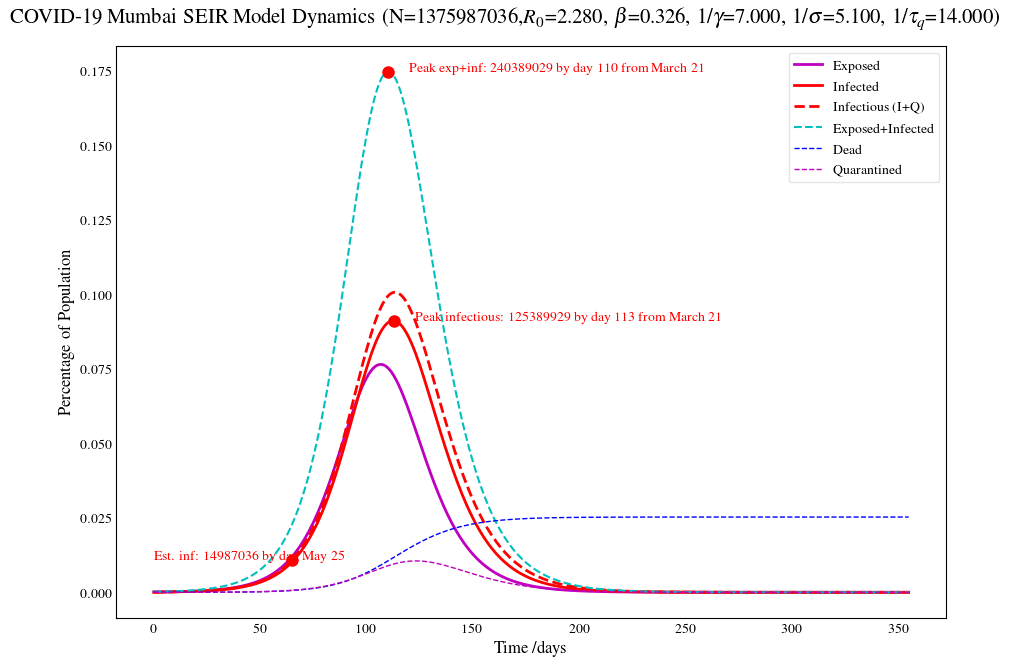
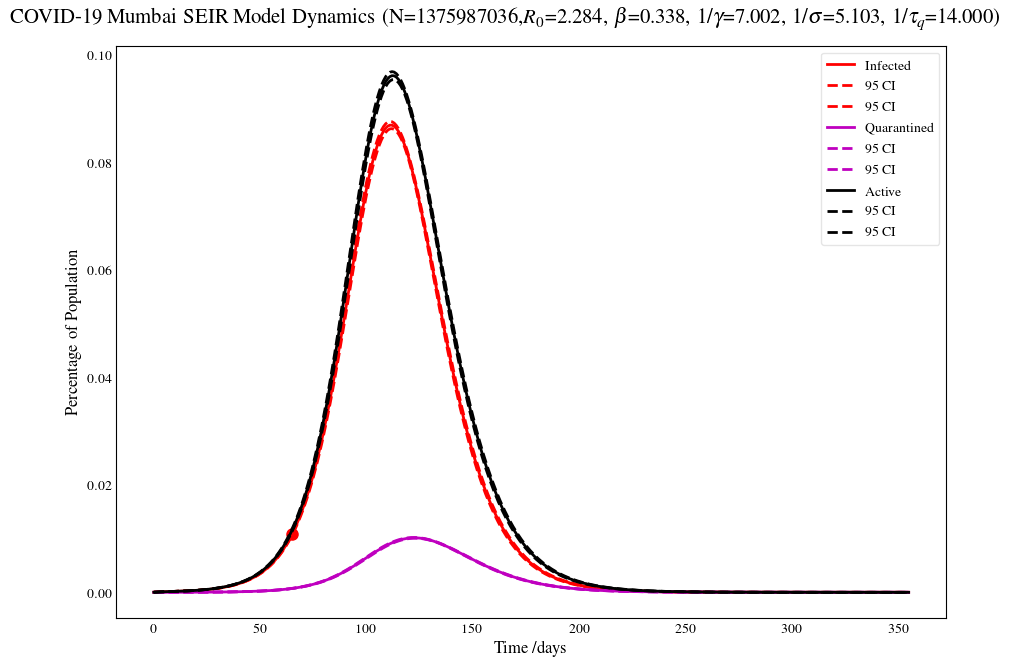
Implemented monte carlo sampling for Mumbai model.. not working well..

diff --git a/sim_mumbaiPuneSEIR_model_MC.py b/sim_mumbaiPuneSEIR_model_MC.py
@@ -1,14 +1,21 @@
+import random
 import numpy as np
 from   scipy.integrate import odeint
 from   scipy.integrate import solve_ivp
 from   scipy.optimize import fsolve
 from   scipy import stats
 from   scipy.stats import gamma
+import scipy.special as sps
+from scipy.stats import sem
+from scipy.stats import t as tdist
+from scipy import mean
+confidence = 0.95
 import matplotlib.pyplot as plt
 from matplotlib import rc
 
 rc('font',**{'family':'serif','serif':['Times']})
 rc('text', usetex=True)
+
 
 ############################################
 ######## Parameters for Simulation ########
@@ -21,6 +28,7 @@ N            = 1375987036
 days         = 356
 tau_q_inv    = 14
 tau_q        = 1.0 /tau_q_inv
+m            = 0.0043 
 
 # Initial values from March 21st "armed forces predictions"
 R0           = 23
@@ -28,7 +36,7 @@ D0           = 5
 T0           = 334  # 249  
 Q0           = 249           #Q0 is 1% of infectious I0
 I0           = (1.01/0.01) * Q0
-contact_rate = 10             # number of contacts per day
+contact_rate = 10            # number of contacts per day
 E0           = (contact_rate - 1)*I0
 
 
@@ -65,70 +73,104 @@ def seir_mumbai(t, X, N, beta, gamma, sigma, m, q, tau_q):
 q           = 0.01
 
 # Model Parameters to sample from Gamma Distributions
-gamma_inv    = 7  
-sigma_inv    = 5.1
-m            = 0.0043
-r0           = 2.28      
+gamma_inv, gamma_inv_shape = 7 , 0.1 
+sigma_inv, sigma_inv_shape = 5.1, 0.1
+r0, r0_shape               = 2.28 , 0.1     
 
-# Sample 1000 points from 
-shape,scale = 4.2503, 7037
-Gamma = gamma(a = shape, scale = scale)
-x = np.arange(1,100000)
+# Sample 1000 points from gamma distribution of gamma_inv
+gamma_inv_samples = 10*np.random.gamma(gamma_inv, gamma_inv_shape, 1000)
+sigma_inv_samples = 10*np.random.gamma(sigma_inv, sigma_inv_shape, 1000)
+r0_samples = 10*np.random.gamma(r0, r0_shape, 1000)
+# gamma_inv_samples = np.random.normal(gamma_inv, gamma_inv_shape, 1000)
+# sigma_inv_samples = np.random.normal(sigma_inv, sigma_inv_shape, 1000)
+# r0_samples = np.random.normal(r0, r0_shape, 1000)
 
-fig, ax = plt.subplots(ncols = 3, nrows = 1, figsize = (20,5), sharex = True)
-ax[0].plot(x, Gamma.pdf(x));
+count, bins, ignored = plt.hist(r0_samples, 50, density=True)
+plt.show()
+count, bins, ignored = plt.hist(sigma_inv_samples, 50, density=True)
+plt.show()
+count, bins, ignored = plt.hist(gamma_inv_samples, 50, density=True)
+plt.show()
 
-ax[1].hist(Gamma.rvs(460), edgecolor = 'white', bins = 50);
-
-
-samps = np.concatenate([Gamma.rvs(j) for j in [200, 200, 50 , 10]])
-ax[2].hist(samps, edgecolor = 'white', bins = 50);
-
-
-
-
-# Derived Model parameters and 
-beta       = r0 / gamma_inv
-sigma      = 1.0 / sigma_inv
-gamma      = 1.0 / gamma_inv
-
-
-print('*****   Hyper-parameters    *****')
-print('N=',N,'days=',days, 'r0=',r0, 'gamma_inv (days) = ',gamma_inv, 'tauq_inv (days) = ',tau_q_inv)
-
-print('*****   Model-parameters    *****')
-print('beta=',beta,'gamma=', gamma, 'sigma', sigma, 'tau_q', tau_q, 'm', m)
-
-
-''' Compartment structure of armed forces SEIR model
-    N = S + E + I + Q + R + D
-'''
-S0 = N - E0 - I0 - Q0 - R0 - D0
-print("S0=",S0)
-print("E0=",E0)
-print("I0=",I0)
-print("Q0=",D0)
-print("R0=",R0)
-print("D0=",D0)
-
-# A grid of time points (in days)
+# A grid of time points (in days) for each simulation
 t_eval = np.arange(0, days, 1)
 
-# Initial conditions vector
-y0 = S0, E0, I0, Q0, R0, D0
+simulations = 1000
+S_sims  = np.empty(shape=(simulations,days))
+E_sims  = np.empty(shape=(simulations,days))
+I_sims  = np.empty(shape=(simulations,days))
+Q_sims  = np.empty(shape=(simulations,days))
+Re_sims = np.empty(shape=(simulations,days))
+D_sims  = np.empty(shape=(simulations,days))
+for ii in range(simulations):
+    gamma_inv_sample = gamma_inv_samples[ii]
+    sigma_inv_sample = sigma_inv_samples[ii]
+    r0_sample = r0_samples[ii]
 
-# Integrate the SEIR equations over the time grid, with bet
-ode_sol = solve_ivp(lambda t, X: seir_mumbai(t, X, N, beta, gamma, sigma, m, q, tau_q), y0=y0, t_span=[0, days], t_eval=t_eval, method='LSODA')
+    ### TODO:  Put all of this in a class later
+    # Derived Model parameters and 
+    beta       = r0_sample / gamma_inv_sample
+    sigma      = 1.0 / sigma_inv_sample
+    gamma      = 1.0 / gamma_inv_sample
 
-t   = ode_sol['t']
-S   = ode_sol['y'][0]
-E   = ode_sol['y'][1]
-I   = ode_sol['y'][2]
-Q   = ode_sol['y'][3]
-Re  = ode_sol['y'][4]
-D   = ode_sol['y'][5]
+    print('*****   Hyper-parameters    *****')
+    print('N=',N,'days=',days, 'r0=',r0_sample, 'gamma_inv (days) = ',gamma_inv_sample, 'tauq_inv (days) = ',tau_q_inv, 'sigma_inv (days) = ',sigma_inv_sample)
+
+    print('*****   Model-parameters    *****')
+    print('beta=',beta,'gamma=', gamma, 'sigma', sigma, 'tau_q', tau_q, 'm', m)
+
+    ''' Compartment structure of armed forces SEIR model
+        N = S + E + I + Q + R + D
+    '''
+    S0 = N - E0 - I0 - Q0 - R0 - D0
+    print("S0=",S0)
+    print("E0=",E0)
+    print("I0=",I0)
+    print("Q0=",D0)
+    print("R0=",R0)
+    print("D0=",D0)
+    
+
+    # Initial conditions vector
+    y0 = S0, E0, I0, Q0, R0, D0
+
+    # Integrate the SEIR equations over the time grid, with bet
+    ode_sol = solve_ivp(lambda t, X: seir_mumbai(t, X, N, beta, gamma, sigma, m, q, tau_q), y0=y0, t_span=[0, days], t_eval=t_eval, method='LSODA')
+
+    t              = ode_sol['t']
+    S_sims[ii,:]   = ode_sol['y'][0]
+    E_sims[ii,:]   = ode_sol['y'][1]
+    I_sims[ii,:]   = ode_sol['y'][2]
+    Q_sims[ii,:]   = ode_sol['y'][3]
+    Re_sims[ii,:]  = ode_sol['y'][4]
+    D_sims[ii,:]   = ode_sol['y'][5]
+
+
+t = t_eval
+# Compute mean and confidence interval of simulations
+S = np.mean(S_sims,0)
+E = np.mean(E_sims,0)
+
+# Infected Cases
+I = np.mean(I_sims,0)
+I_std_err = sem(I_sims,0)
+I_h = I_std_err * tdist.ppf((1 + confidence) / 2, days - 1)
+I_up = I+I_h
+I_low = I-I_h
+
+# Quarantined Cases
+Q = np.mean(Q_sims,0)
+Q_std_err = sem(Q_sims,0)
+Q_h = Q_std_err * tdist.ppf((1 + confidence) / 2, days - 1)
+Q_up = Q+Q_h
+Q_low = Q-Q_h
+
+
+Re = np.mean(Re_sims,0)
+D = np.mean(D_sims,0)
+
+# Compute auxilliary variables
 R   = Re + D + Q
-
 T  = I + R 
 TA = E + I + Q
 Inf = I + Q
@@ -152,11 +194,11 @@ max_inf_idx = np.argmax(I)
 max_inf     = I[max_inf_idx]
 print('Peak Infected = ', max_inf,'by day=',max_inf_idx)
 
-max_act_idx = np.argmax(TA)
+max_act_idx = np.argmax(Inf)
 max_act     = TA[max_act_idx]
 print('Peak Exp+Inf = ', max_inf,'by day=',max_act_idx)
 
-est_act     = Inf[65]
+est_act     = I[65]
 print('3Million Estimate Exp+Inf = ', est_act,'by day 65')
 
 # Final epidemic size (analytic)
@@ -173,10 +215,29 @@ print('Covid r0 = ', r0_test, 'Covid Sinf/S0 = ', covid_SinfN[0], 'Covid Sinf/S0
 # Plot the data on three separate curves for S(t), I(t) and R(t)
 fig, ax1 = plt.subplots()
 
+gamma_inv = np.mean(gamma_inv_samples)
+sigma_inv = np.mean(sigma_inv_samples)
+r0        = np.mean(r0_samples)
+
 txt_title = r"COVID-19 Mumbai SEIR Model Dynamics (N={N:10.0f},$R_0$={R0:1.3f}, $\beta$={beta:1.3f}, 1/$\gamma$={gamma_inv:1.3f}, 1/$\sigma$={sigma_inv:1.3f}, 1/$\tau_q$={tau_q_inv:1.3f})"
 fig.suptitle(txt_title.format(N=N, R0=r0, beta= beta, gamma_inv = gamma_inv, sigma_inv = sigma_inv, tau_q_inv = tau_q_inv),fontsize=15)
 
 plot_all = 0
+plot_inf = 1
+
+# Evolution of infected cases with confidence intervals
+if plot_inf:
+    ax1.plot(t, I/N, 'r',   lw=2,       label='Infected')
+    ax1.plot(t, I_up/N, 'r--',   lw=2,   label='95 CI')
+    ax1.plot(t, I_low/N, 'r--',   lw=2,   label='95 CI')
+    ax1.plot(65, est_act/N,'ro', markersize=8)
+    ax1.plot(t, Q/N, 'm',   lw=2,       label='Quarantined')
+    ax1.plot(t, Q_up/N, 'm--',   lw=2,   label='95 CI')
+    ax1.plot(t, Q_low/N, 'm--',   lw=2,   label='95 CI')
+    ax1.plot(t, (Q+I)/N, 'k',   lw=2,       label='Active')
+    ax1.plot(t, (Q_up+I_up)/N, 'k--',   lw=2,   label='95 CI')
+    ax1.plot(t, (Q_low+I_low)/N, 'k--',   lw=2,   label='95 CI')
+
 
 # Variable evolution
 if plot_all:
@@ -188,25 +249,23 @@ if plot_all:
     ax1.plot(t, covid_1SinfN*np.ones(len(t)), 'm--')
     txt1 = "{per:2.2f} infected"
     ax1.text(t[0], covid_1SinfN - 0.05, txt1.format(per=covid_1SinfN[0]), fontsize=12, color='m')
+    ax1.plot(t, E/N, 'm',   lw=2, label='Exposed')
+    ax1.plot(t, I/N, 'r',   lw=2,   label='Infected')
+    ax1.plot(t, Inf/N, 'r--',   lw=2,   label='Infectious (I+Q)')
+    ax1.plot(t, TA/N, 'c--', lw=1.5,   label='Exposed+Infected')
+    ax1.plot(t, D/N, 'b--',  lw=1,  label='Dead')
+    ax1.plot(t, Q/N, 'm--',  lw=1,  label='Quarantined')
 
-ax1.plot(t, E/N, 'm',   lw=2, label='Exposed')
-ax1.plot(t, I/N, 'r',   lw=2,   label='Infected')
-ax1.plot(t, Inf/N, 'r--',   lw=2,   label='Infectious (I+Q)')
-ax1.plot(t, TA/N, 'c--', lw=1.5,   label='Exposed+Infected')
-ax1.plot(t, D/N, 'b--',  lw=1,  label='Dead')
-ax1.plot(t, Q/N, 'm--',  lw=1,  label='Quarantined')
-
-
-# Plot peak points
-ax1.plot(max_inf_idx, max_inf/N,'ro', markersize=8)
-ax1.plot(max_act_idx, max_act/N,'ro', markersize=8)
-ax1.plot(65, est_act/N,'ro', markersize=8)
-txt_title = r"Peak infectious: {peak_inf:5.0f} by day {peak_days:2.0f} from March 21" 
-txt_title2 = r"Peak exp+inf: {peak_act:5.0f} by day {peak_days:2.0f} from March 21" 
-txt_title3 = r"Est. inf: {est_act:5.0f} by day May 25" 
-ax1.text(max_inf_idx+10, max_inf/N, txt_title.format(peak_inf=max_inf, peak_days= max_inf_idx), fontsize=10, color="r")
-ax1.text(max_act_idx+10, max_act/N, txt_title2.format(peak_act=max_act, peak_days= max_act_idx), fontsize=10, color="r")
-ax1.text(0, est_act/N, txt_title3.format(est_act=est_act), fontsize=10, color="r")
+    # Plot peak points
+    ax1.plot(max_inf_idx, max_inf/N,'ro', markersize=8)
+    ax1.plot(max_act_idx, max_act/N,'ro', markersize=8)
+    ax1.plot(65, est_act/N,'ro', markersize=8)
+    txt_title = r"Peak infectious: {peak_inf:5.0f} by day {peak_days:2.0f} from March 21" 
+    txt_title2 = r"Peak exp+inf: {peak_act:5.0f} by day {peak_days:2.0f} from March 21" 
+    txt_title3 = r"Est. inf: {est_act:5.0f} by day May 25" 
+    ax1.text(max_inf_idx+10, max_inf/N, txt_title.format(peak_inf=max_inf, peak_days= max_inf_idx), fontsize=10, color="r")
+    ax1.text(max_act_idx+10, max_act/N, txt_title2.format(peak_act=max_act, peak_days= max_act_idx), fontsize=10, color="r")
+    ax1.text(0, est_act/N, txt_title3.format(est_act=est_act), fontsize=10, color="r")
 
 # Making things beautiful
 ax1.set_xlabel('Time /days', fontsize=12)
@@ -325,5 +384,6 @@ if do_growth:
 
 
 plt.show()
+
 
 
